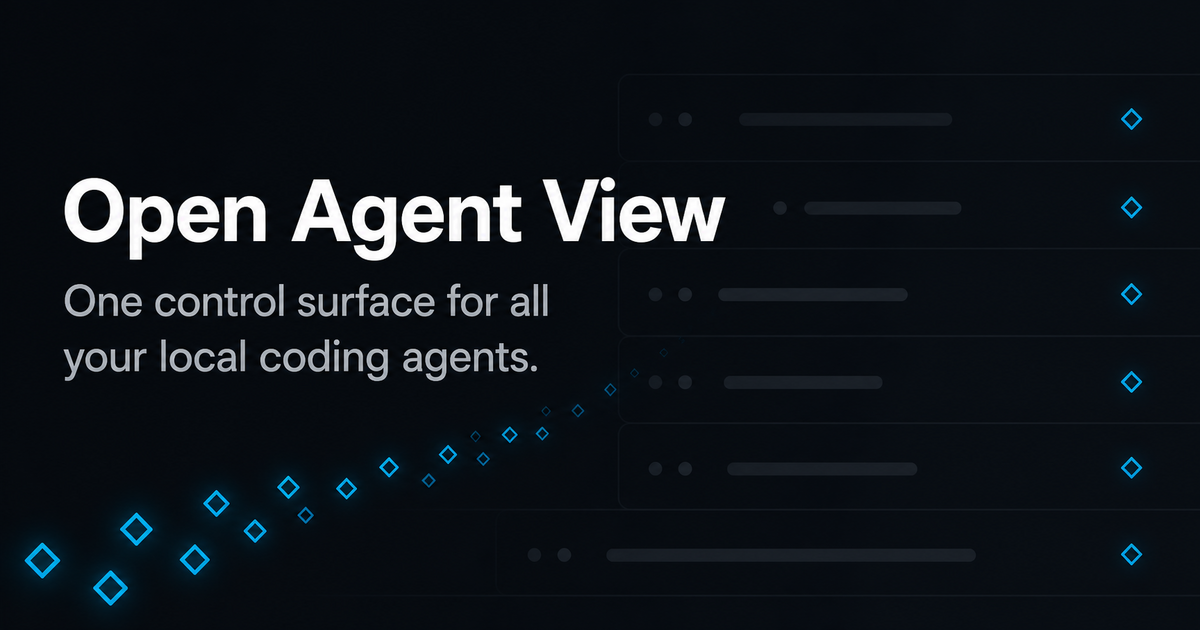
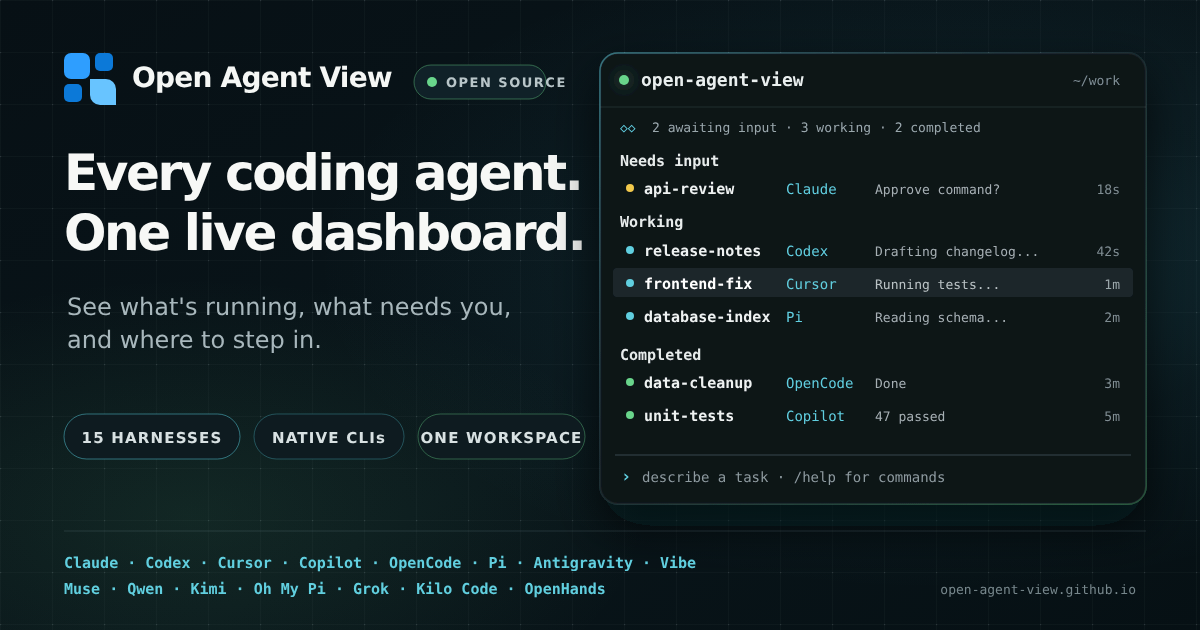
site: redesign social preview card

diff --git a/website/app/layout.tsx b/website/app/layout.tsx
@@ -14,22 +14,29 @@ const geistMono = Geist_Mono({
 
 export const metadata: Metadata = {
   metadataBase: new URL("https://open-agent-view.github.io"),
-  title: "Open Agent View — One control surface for local coding agents",
+  title: "Open Agent View: One dashboard for every coding agent",
   description:
-    "Discover, follow, and safely control local coding-agent sessions from one terminal.",
+    "Monitor 15 coding harnesses, see what needs input, and jump into each native CLI from one live dashboard.",
   alternates: { canonical: "/" },
   icons: { icon: "/favicon.svg" },
   openGraph: {
     type: "website",
     url: "/",
-    title: "Open Agent View",
-    description: "One control surface for all your local coding agents.",
-    images: [{ url: "/og.png", width: 1200, height: 630, alt: "Open Agent View" }],
+    title: "Open Agent View: One dashboard for every coding agent",
+    description:
+      "Monitor 15 coding harnesses, see what needs input, and jump into each native CLI from one live dashboard.",
+    images: [{
+      url: "/og.png",
+      width: 1200,
+      height: 630,
+      alt: "Open Agent View dashboard monitoring Claude, Codex, Cursor, Copilot, OpenCode, Pi, and nine more coding harnesses",
+    }],
   },
   twitter: {
     card: "summary_large_image",
-    title: "Open Agent View",
-    description: "One control surface for all your local coding agents.",
+    title: "Open Agent View: One dashboard for every coding agent",
+    description:
+      "Monitor 15 coding harnesses, see what needs input, and jump into each native CLI from one live dashboard.",
     images: ["/og.png"],
   },
 };

diff --git a/website/tests/visual.spec.ts b/website/tests/visual.spec.ts
@@ -44,6 +44,18 @@ async function openReady(page: import("@playwright/test").Page) {
   await page.waitForTimeout(750);
 }
 
+test("social preview renders at the large-card dimensions", async ({ page }, testInfo) => {
+  await page.goto("/og.png");
+  const image = page.locator("img");
+  await expect(image).toBeVisible();
+  const dimensions = await image.evaluate((node: HTMLImageElement) => ({
+    width: node.naturalWidth,
+    height: node.naturalHeight,
+  }));
+  expect(dimensions).toEqual({ width: 1200, height: 630 });
+  await page.screenshot({ path: testInfo.outputPath("social-preview.png") });
+});
+
 for (const viewport of viewports) {
   test(`${viewport.name} renders real players without horizontal overflow`, async ({ page }, testInfo) => {
     await page.setViewportSize(viewport);
